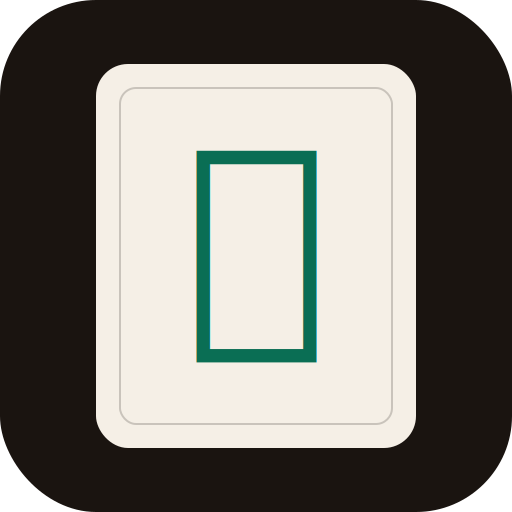
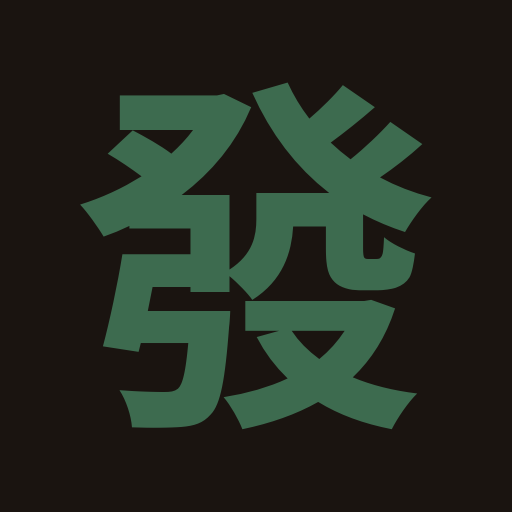
Pwa hardening

diff --git a/public/sw.js b/public/sw.js
@@ -1,43 +1,149 @@
-// Mahjong League service worker
-const CACHE = 'mahjong-league-v1';
-const ASSETS = ['/', '/manifest.json', '/icon.svg'];
+/* Mahjong League service worker
+ *
+ * Strategy:
+ *   - Static assets (icons, manifest, background): cache-first.
+ *   - App routes (HTML): network-first with cache fallback. We never
+ *     want to serve stale HTML for authenticated pages.
+ *   - Auth + API: network-only. Magic-link callbacks have one-shot codes
+ *     that can't be served from cache. Supabase responses also must hit
+ *     the network for live data.
+ *   - Offline: if the network fails and there's no cache, we fall back to
+ *     a tiny inline offline page so users get *something* rather than a
+ *     browser error.
+ *
+ * Cache version is injected at build time by a string-replace pass.
+ * The CACHE_VERSION literal below ("__BUILD_ID__" before deploy, or a
+ * timestamp the build script substitutes) ensures every deploy rolls a
+ * fresh cache so users don't get pinned to old HTML forever.
+ */
 
+const CACHE_VERSION = 'v3-2026-05-17';     // bump on every deploy
+const STATIC_CACHE = `mahjong-static-${CACHE_VERSION}`;
+const RUNTIME_CACHE = `mahjong-runtime-${CACHE_VERSION}`;
+
+const STATIC_ASSETS = [
+  '/manifest.json',
+  '/icon.svg',
+  '/icon-192.png',
+  '/icon-512.png',
+  '/mahjong-bg.png',
+];
+
+// Pre-cache the small set of always-needed assets on install.
 self.addEventListener('install', (event) => {
-  event.waitUntil(caches.open(CACHE).then((c) => c.addAll(ASSETS)).catch(() => {}));
+  event.waitUntil(
+    caches.open(STATIC_CACHE)
+      .then((cache) => cache.addAll(STATIC_ASSETS))
+      .catch(() => { /* allow install to succeed even if pre-cache fails */ })
+  );
   self.skipWaiting();
 });
 
+// Clean out old caches on activate. Anything not starting with our current
+// CACHE_VERSION suffix gets dropped so old deploys can't pin users.
 self.addEventListener('activate', (event) => {
   event.waitUntil(
     caches.keys().then((keys) =>
-      Promise.all(keys.filter((k) => k !== CACHE).map((k) => caches.delete(k)))
-    )
+      Promise.all(
+        keys
+          .filter((k) => !k.endsWith(CACHE_VERSION))
+          .map((k) => caches.delete(k))
+      )
+    ).then(() => self.clients.claim())
   );
-  self.clients.claim();
 });
 
 self.addEventListener('fetch', (event) => {
   const { request } = event;
   if (request.method !== 'GET') return;
-  const url = new URL(request.url);
 
-  // Network-first for Supabase API + Next data
-  if (url.origin !== self.location.origin || url.pathname.startsWith('/_next/data')) {
-    event.respondWith(fetch(request).catch(() => caches.match(request) as Promise<Response>));
+  const url = new URL(request.url);
+  const isSameOrigin = url.origin === self.location.origin;
+
+  // Never cache auth callbacks or Supabase API responses.
+  // Magic-link codes are one-shot and Supabase data must be live.
+  if (
+    !isSameOrigin ||
+    url.pathname.startsWith('/auth/') ||
+    url.pathname.startsWith('/api/')
+  ) {
+    // Network-only. Let the browser handle failure (it'll show its own
+    // error page, which is appropriate for an auth flow.)
     return;
   }
 
-  // Stale-while-revalidate for app shell
-  event.respondWith(
-    caches.open(CACHE).then(async (cache) => {
-      const cached = await cache.match(request);
-      const fetchPromise = fetch(request)
-        .then((response) => {
-          if (response.ok) cache.put(request, response.clone());
-          return response;
-        })
-        .catch(() => cached as Response);
-      return cached || fetchPromise;
-    })
-  );
+  // Static assets: cache-first.
+  if (
+    url.pathname.startsWith('/_next/static/') ||
+    url.pathname.startsWith('/icon') ||
+    url.pathname === '/mahjong-bg.png' ||
+    url.pathname === '/manifest.json'
+  ) {
+    event.respondWith(cacheFirst(request));
+    return;
+  }
+
+  // Everything else (HTML pages, _next/data): network-first.
+  event.respondWith(networkFirst(request));
 });
+
+async function cacheFirst(request) {
+  const cache = await caches.open(STATIC_CACHE);
+  const cached = await cache.match(request);
+  if (cached) return cached;
+  try {
+    const response = await fetch(request);
+    if (response.ok) cache.put(request, response.clone());
+    return response;
+  } catch {
+    return cached || new Response('', { status: 504 });
+  }
+}
+
+async function networkFirst(request) {
+  const cache = await caches.open(RUNTIME_CACHE);
+  try {
+    const response = await fetch(request);
+    if (response.ok) cache.put(request, response.clone());
+    return response;
+  } catch {
+    const cached = await cache.match(request);
+    if (cached) return cached;
+    // Last-resort offline page for navigations.
+    if (request.mode === 'navigate') {
+      return new Response(OFFLINE_HTML, {
+        headers: { 'Content-Type': 'text/html; charset=utf-8' },
+        status: 200,
+      });
+    }
+    return new Response('', { status: 504 });
+  }
+}
+
+const OFFLINE_HTML = `<!doctype html>
+<html lang="en">
+<head>
+<meta charset="utf-8">
+<title>Offline — Mahjong League</title>
+<meta name="viewport" content="width=device-width, initial-scale=1">
+<style>
+  body { margin:0; min-height:100vh; display:flex; align-items:center; justify-content:center;
+         background:#f5efe6; color:#1a1410;
+         font-family: -apple-system, BlinkMacSystemFont, system-ui, sans-serif; }
+  main { text-align:center; padding: 3rem 1.5rem; max-width: 28rem; }
+  h1 { font-family: Georgia, 'Cormorant Garamond', serif; font-weight: 500;
+       font-size: 3rem; margin: 0 0 .5rem; letter-spacing: -0.02em; }
+  p { color: rgba(26,20,16,.6); line-height: 1.6; }
+  .glyph { font-size: 4rem; margin-bottom: 1rem; color: #3d6b4f; }
+  .note { font-size: .8rem; letter-spacing: .2em; text-transform: uppercase; color: rgba(26,20,16,.4); margin-top: 2rem; }
+</style>
+</head>
+<body>
+  <main>
+    <div class="glyph">發</div>
+    <h1>Offline</h1>
+    <p>No connection right now. We'll be back as soon as you're online again.</p>
+    <p class="note">Mahjong League</p>
+  </main>
+</body>
+</html>`;

diff --git a/components/InstallPrompt.tsx b/components/InstallPrompt.tsx
@@ -1,0 +1,144 @@
+'use client';
+
+import { useEffect, useState } from 'react';
+
+// The browser fires `beforeinstallprompt` when the app meets installability
+// criteria (HTTPS, manifest present, service worker registered, not already
+// installed). We capture it, prevent the auto-mini-infobar, and surface a
+// tasteful in-app prompt instead — giving us control over timing and copy.
+//
+// On iOS Safari this event never fires (Apple doesn't support it), but iOS
+// users can still "Add to Home Screen" from the share menu. We show a small
+// hint for iOS visitors who haven't installed yet.
+
+type BeforeInstallPromptEvent = Event & {
+  prompt: () => Promise<void>;
+  userChoice: Promise<{ outcome: 'accepted' | 'dismissed' }>;
+};
+
+const DISMISS_KEY = 'mahjong-install-dismissed-until';
+
+function isStandalone(): boolean {
+  if (typeof window === 'undefined') return false;
+  if (window.matchMedia('(display-mode: standalone)').matches) return true;
+  // iOS Safari standalone flag
+  if ((window.navigator as any).standalone === true) return true;
+  return false;
+}
+
+function isIOS(): boolean {
+  if (typeof window === 'undefined') return false;
+  const ua = window.navigator.userAgent;
+  return /iPad|iPhone|iPod/.test(ua) && !(window as any).MSStream;
+}
+
+function isDismissed(): boolean {
+  try {
+    const until = localStorage.getItem(DISMISS_KEY);
+    if (!until) return false;
+    return Date.now() < parseInt(until, 10);
+  } catch {
+    return false;
+  }
+}
+
+function dismissFor(days: number) {
+  try {
+    localStorage.setItem(DISMISS_KEY, String(Date.now() + days * 86400 * 1000));
+  } catch { /* ignore */ }
+}
+
+export default function InstallPrompt() {
+  const [deferredPrompt, setDeferredPrompt] = useState<BeforeInstallPromptEvent | null>(null);
+  const [showIOSHint, setShowIOSHint] = useState(false);
+  const [hidden, setHidden] = useState(true);
+
+  useEffect(() => {
+    if (isStandalone()) return;          // already installed
+    if (isDismissed()) return;            // user said not now
+
+    // Generic Chromium/Edge install flow
+    const onBeforeInstall = (e: Event) => {
+      e.preventDefault();
+      setDeferredPrompt(e as BeforeInstallPromptEvent);
+      setHidden(false);
+    };
+    window.addEventListener('beforeinstallprompt', onBeforeInstall);
+
+    // Hide if installed during this session
+    const onInstalled = () => {
+      setHidden(true);
+      setDeferredPrompt(null);
+    };
+    window.addEventListener('appinstalled', onInstalled);
+
+    // iOS: show hint if not in standalone mode
+    if (isIOS()) {
+      setShowIOSHint(true);
+      setHidden(false);
+    }
+
+    return () => {
+      window.removeEventListener('beforeinstallprompt', onBeforeInstall);
+      window.removeEventListener('appinstalled', onInstalled);
+    };
+  }, []);
+
+  if (hidden) return null;
+
+  const onInstall = async () => {
+    if (!deferredPrompt) return;
+    await deferredPrompt.prompt();
+    const choice = await deferredPrompt.userChoice;
+    if (choice.outcome === 'accepted') {
+      setHidden(true);
+    } else {
+      // Dismissed via the system prompt — back off for 30 days
+      dismissFor(30);
+      setHidden(true);
+    }
+    setDeferredPrompt(null);
+  };
+
+  const onDismiss = () => {
+    dismissFor(7); // shorter cooldown for "not now" than for outright reject
+    setHidden(true);
+  };
+
+  return (
+    <div className="fixed bottom-4 left-4 right-4 md:left-auto md:right-6 md:bottom-6 md:max-w-sm z-40 fade-up">
+      <div className="tile-border bg-bone p-4 shadow-lg">
+        <div className="flex items-start gap-3">
+          <div className="w-10 h-12 bg-ink flex items-center justify-center flex-shrink-0">
+            <span className="font-display text-2xl text-jade font-semibold">發</span>
+          </div>
+          <div className="flex-1 min-w-0">
+            <div className="font-display text-lg leading-tight">Install Mahjong League</div>
+            {showIOSHint ? (
+              <p className="text-xs text-ink/60 italic mt-1 leading-snug">
+                Tap the Share button, then "Add to Home Screen" for a full-screen app experience.
+              </p>
+            ) : (
+              <p className="text-xs text-ink/60 italic mt-1 leading-snug">
+                Add to your home screen for quick access and full-screen play.
+              </p>
+            )}
+            <div className="flex gap-2 mt-3 items-center">
+              {!showIOSHint && deferredPrompt && (
+                <button onClick={onInstall} className="btn btn-jade text-xs px-3 py-1.5">
+                  Install
+                </button>
+              )}
+              <button
+                onClick={onDismiss}
+                className="text-xs tracking-[0.15em] uppercase text-ink/40 hover:text-cinnabar"
+              >
+                Not now
+              </button>
+            </div>
+          </div>
+        </div>
+      </div>
+    </div>
+  );
+}

diff --git a/app/layout.tsx b/app/layout.tsx
@@ -2,6 +2,7 @@ import './globals.css';
 import type { Metadata, Viewport } from 'next';
 import Link from 'next/link';
 import UserMenu from '@/components/UserMenu';
+import InstallPrompt from '@/components/InstallPrompt';
 
 export const metadata: Metadata = {
   title: 'Mahjong League',
@@ -51,9 +52,27 @@ export default function RootLayout({ children }: { children: React.ReactNode }) 
         <footer className="max-w-6xl mx-auto px-6 py-10 mt-10 border-t border-ink/10 text-xs text-ink/40 tracking-[0.2em] uppercase text-center">
           Four winds · Three dragons · One platform
         </footer>
+        <InstallPrompt />
         <script
           dangerouslySetInnerHTML={{
-            __html: `if ('serviceWorker' in navigator) { window.addEventListener('load', () => navigator.serviceWorker.register('/sw.js').catch(console.error)); }`,
+            __html: `
+              if ('serviceWorker' in navigator) {
+                window.addEventListener('load', async () => {
+                  try {
+                    const reg = await navigator.serviceWorker.register('/sw.js');
+                    // Check for updates on every load so deploys take effect promptly
+                    reg.update().catch(() => {});
+                    // Reload when a new SW takes control
+                    let refreshing = false;
+                    navigator.serviceWorker.addEventListener('controllerchange', () => {
+                      if (refreshing) return;
+                      refreshing = true;
+                      window.location.reload();
+                    });
+                  } catch (e) { console.error('SW registration failed:', e); }
+                });
+              }
+            `,
           }}
         />
       </body>